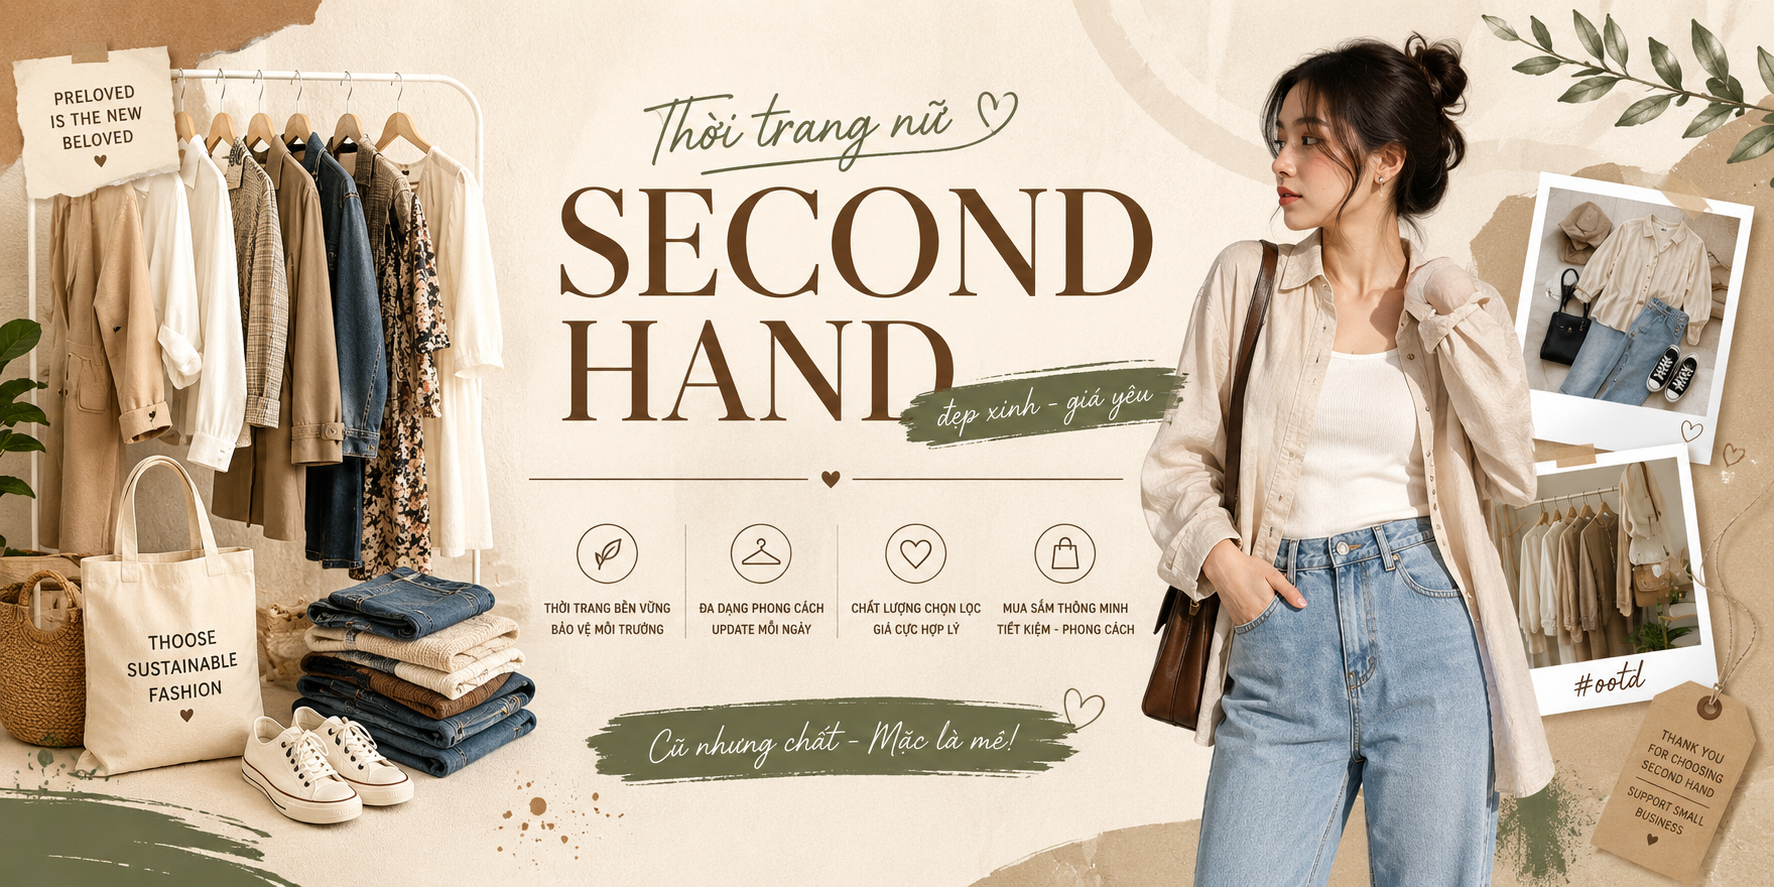
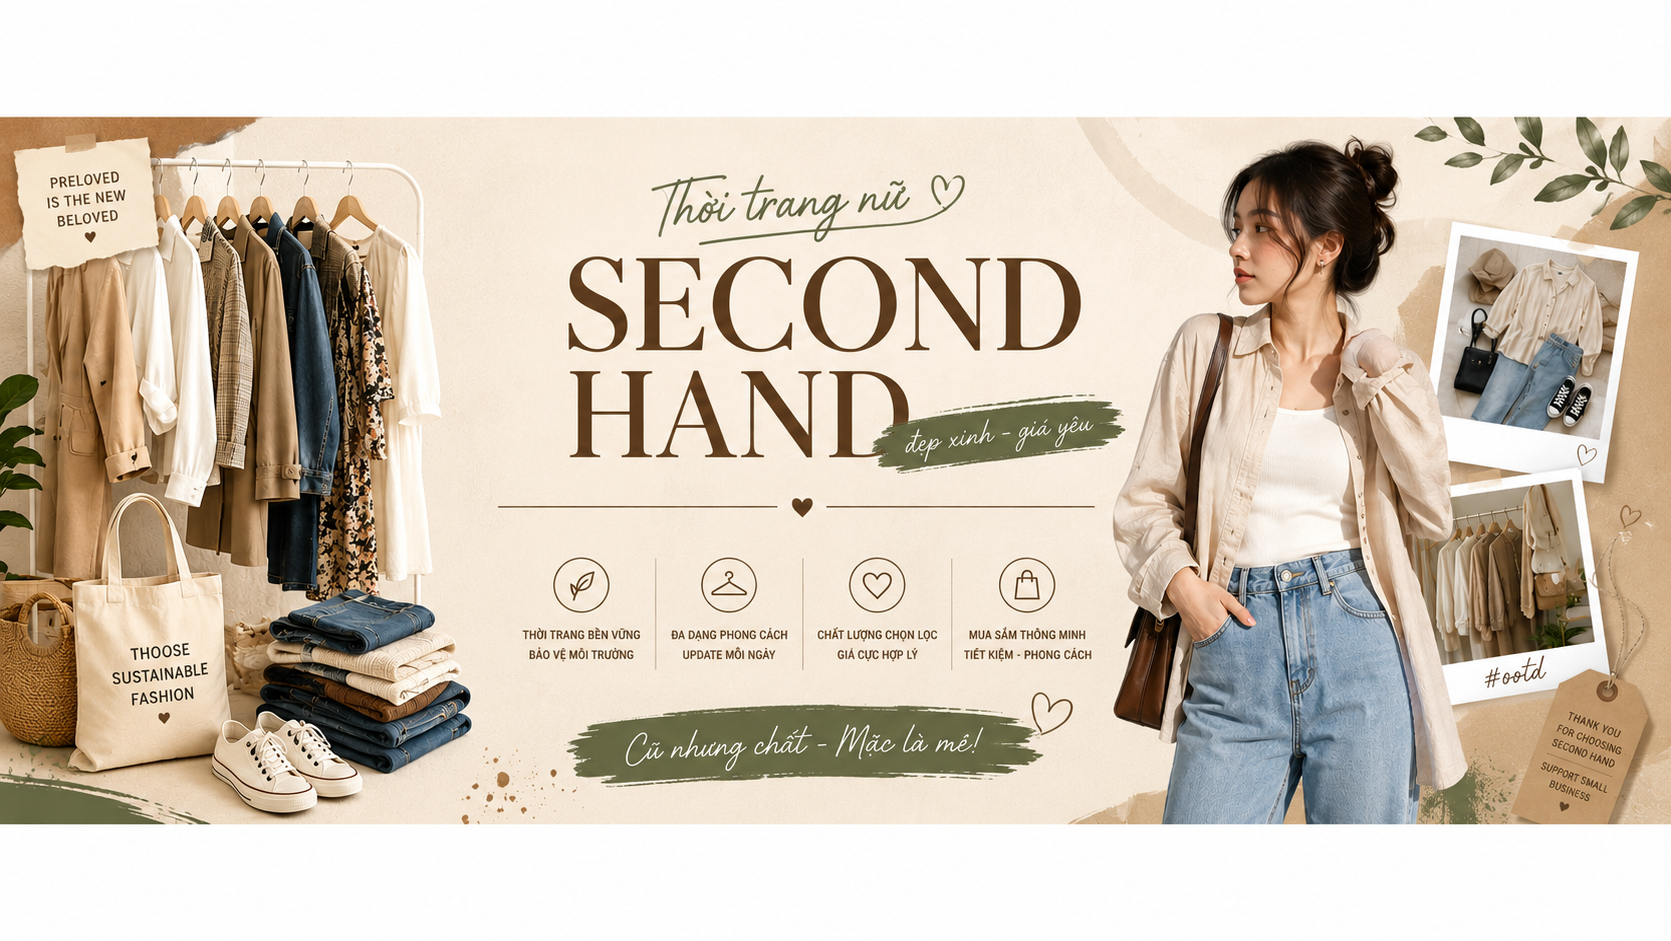
chore: add missing image assets and sync local changes

diff --git a/src/pages/home/HomePage.tsx b/src/pages/home/HomePage.tsx
@@ -128,10 +128,10 @@ export default function HomePage() {
         </div>
       </div>
 
-      {/* 4. PRODUCTS: ÁO KHOÁC NỮ */}
+      {/* 4. PRODUCTS: NỮ */}
       <section className="home__section">
         <div className="home__section-header">
-          <h4>Áo khoác Nữ</h4>
+          <h4>Nữ</h4>
           <Link to={PATHS.women} className="home__section-link">Xem các sản phẩm tương tự</Link>
         </div>
         <div className="home__card-grid">
@@ -149,10 +149,10 @@ export default function HomePage() {
         )}
       </section>
 
-      {/* 5. PRODUCTS: ÁO KHOÁC NAM */}
+      {/* 5. PRODUCTS: NAM */}
       <section className="home__section">
         <div className="home__section-header">
-          <h4>Áo khoác Nam</h4>
+          <h4>Nam</h4>
           <Link to={PATHS.men} className="home__section-link">Xem các sản phẩm tương tự</Link>
         </div>
         <div className="home__card-grid">

diff --git a/src/api/products/productsApi.ts b/src/api/products/productsApi.ts
@@ -38,6 +38,8 @@ export interface ProductsParams {
   inStock?: boolean;
   minPrice?: string;
   maxPrice?: string;
+  style?: string;
+  excludeStyle?: string;
   page?: number;
   sizePage?: number;
 }
